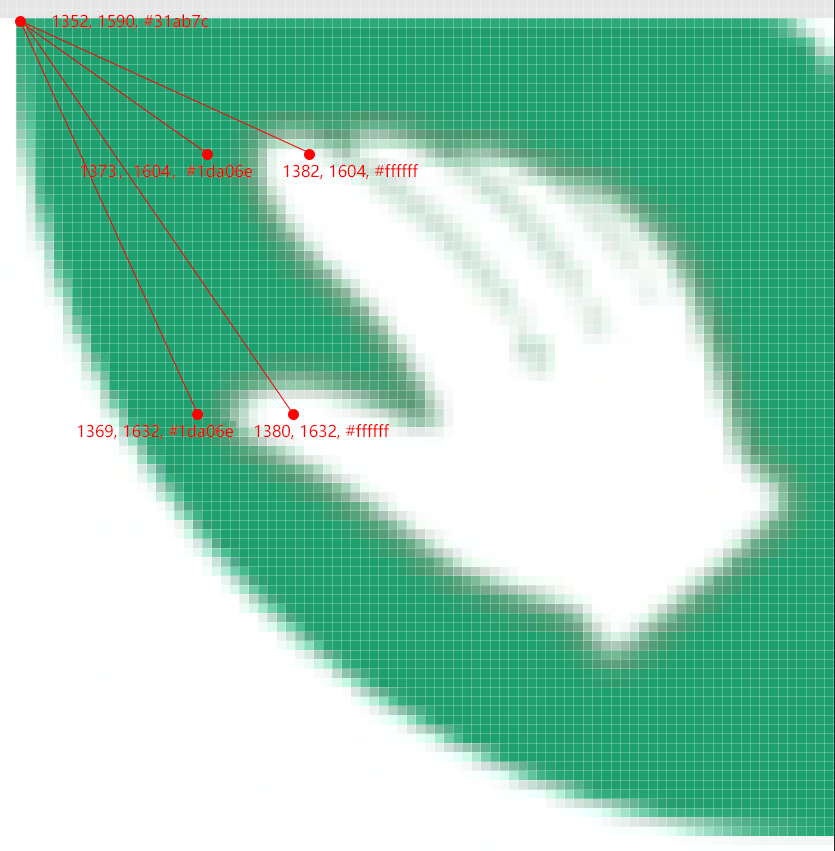
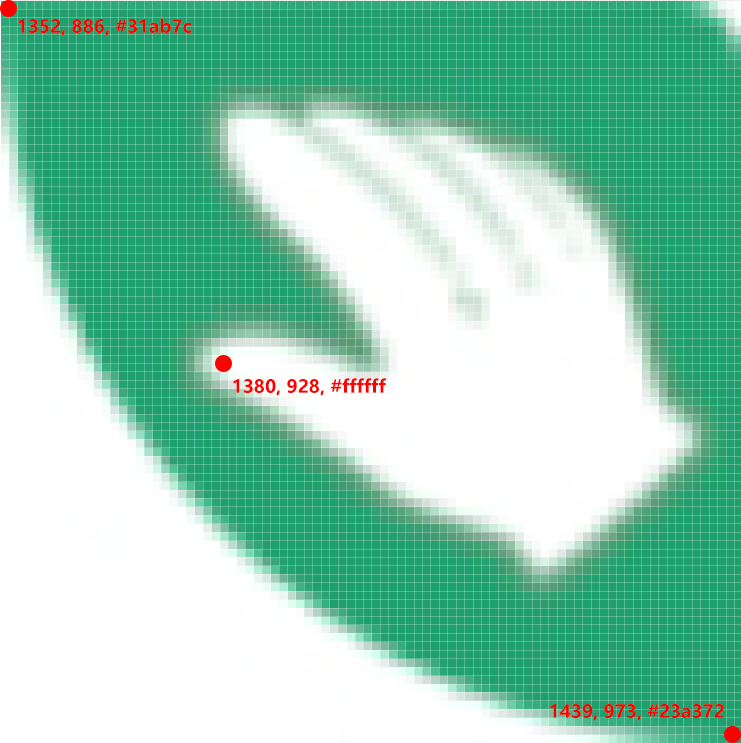
5th commit

diff --git a/ant_forest.js b/ant_forest.js
@@ -1,8 +1,7 @@
 /*
 * @Author: NickHopps
-* @Date:   2018-12-26 02:44:53
 * @Last Modified by:   NickHopps
-* @Last Modified time: 2018-12-28 11:55:46
+* @Last Modified time: 2018-12-31 20:30:18
 * @Description: 蚂蚁森林自动收能量
 */
 
@@ -33,7 +32,7 @@ const devices = {
 
 // 不同手机/分辨率对应多点找色识别信息
 const discern = {
-  HUAWEI_P10_Plus: {prime: "#31ab7c", extra: [[21, 14, "#1da06e"], [30, 14, "#ffffff"], [17, 42, "#1da06e"], [28, 42, "#ffffff"]], option: {region: [1350, 0, 89, 2559], threhold: 4}},
+  HUAWEI_P10_Plus: {prime: "#31ab7c", extra: [[28, 42, "#ffffff"], [87, 87, "#23a372"]], option: {region: [1350, 0, 89, 2559], threhold: 4}},
 }
 
 // 执行配置
